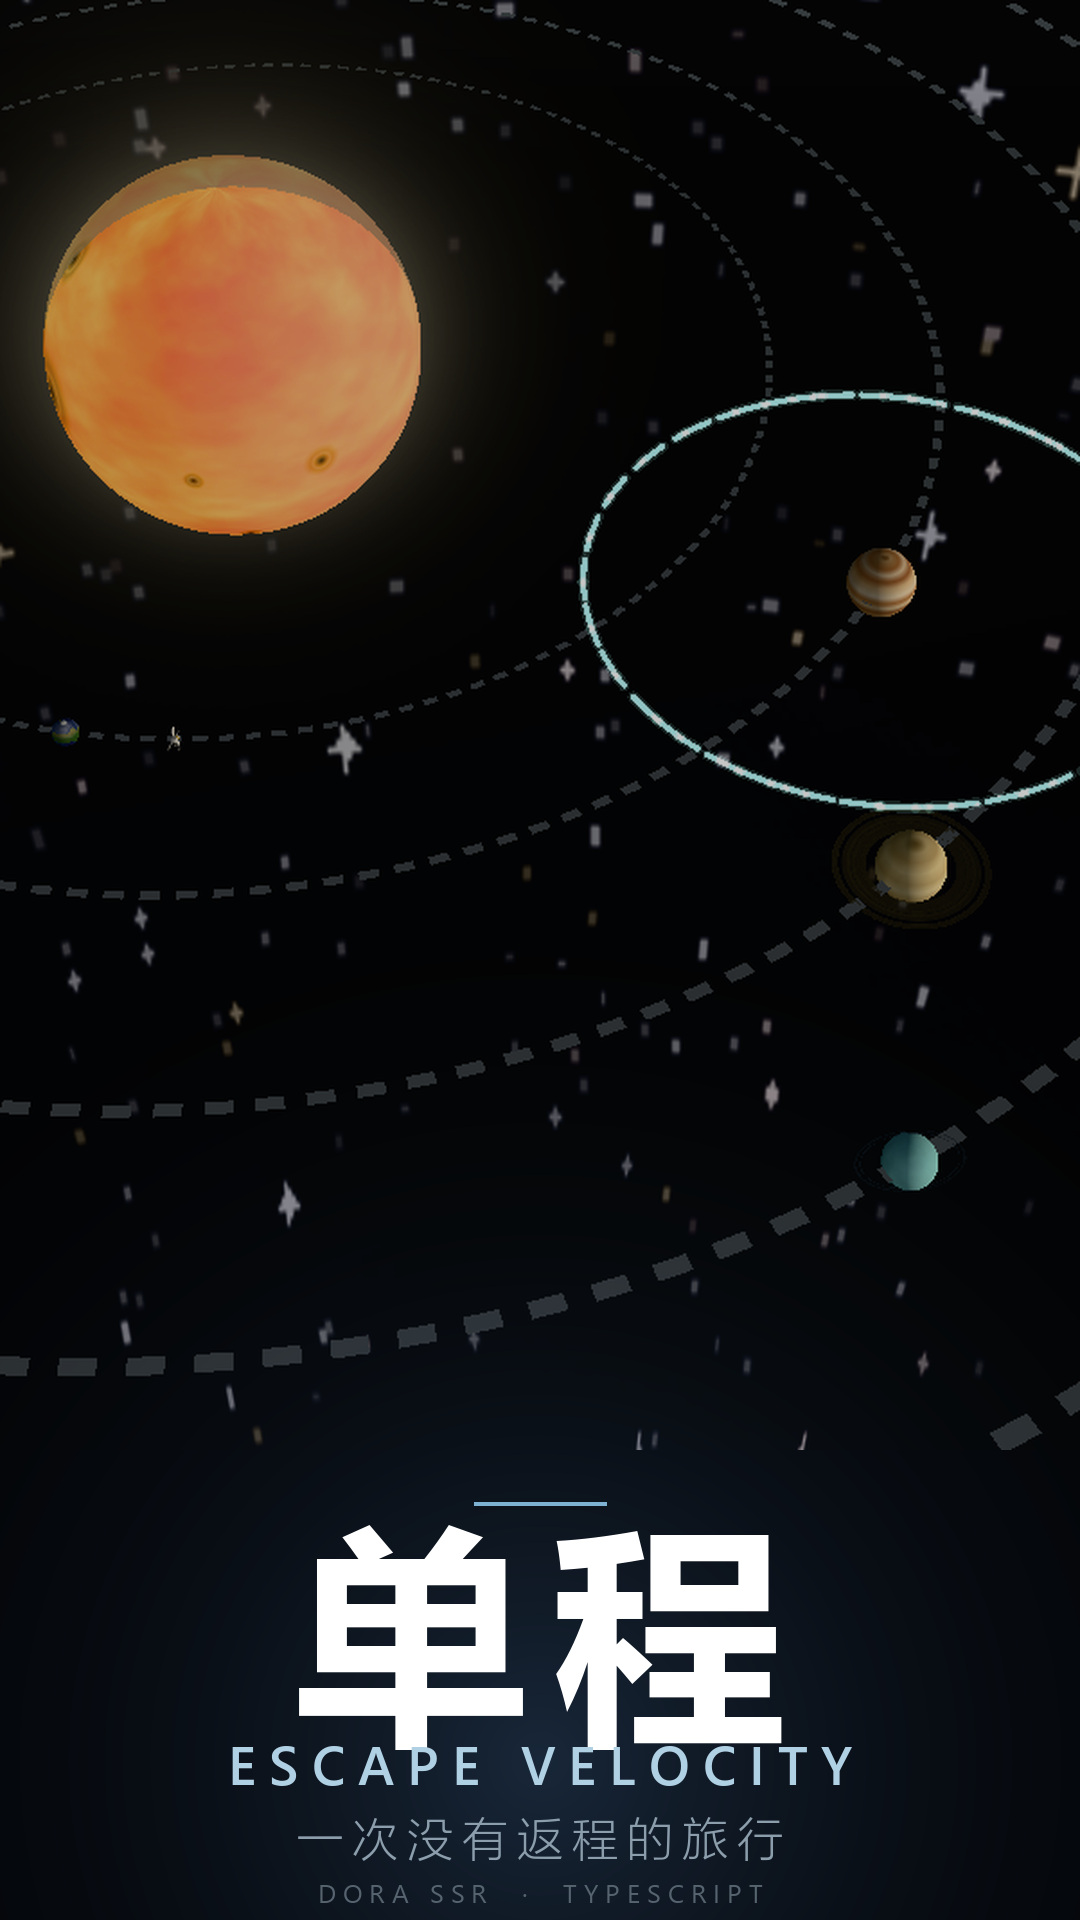
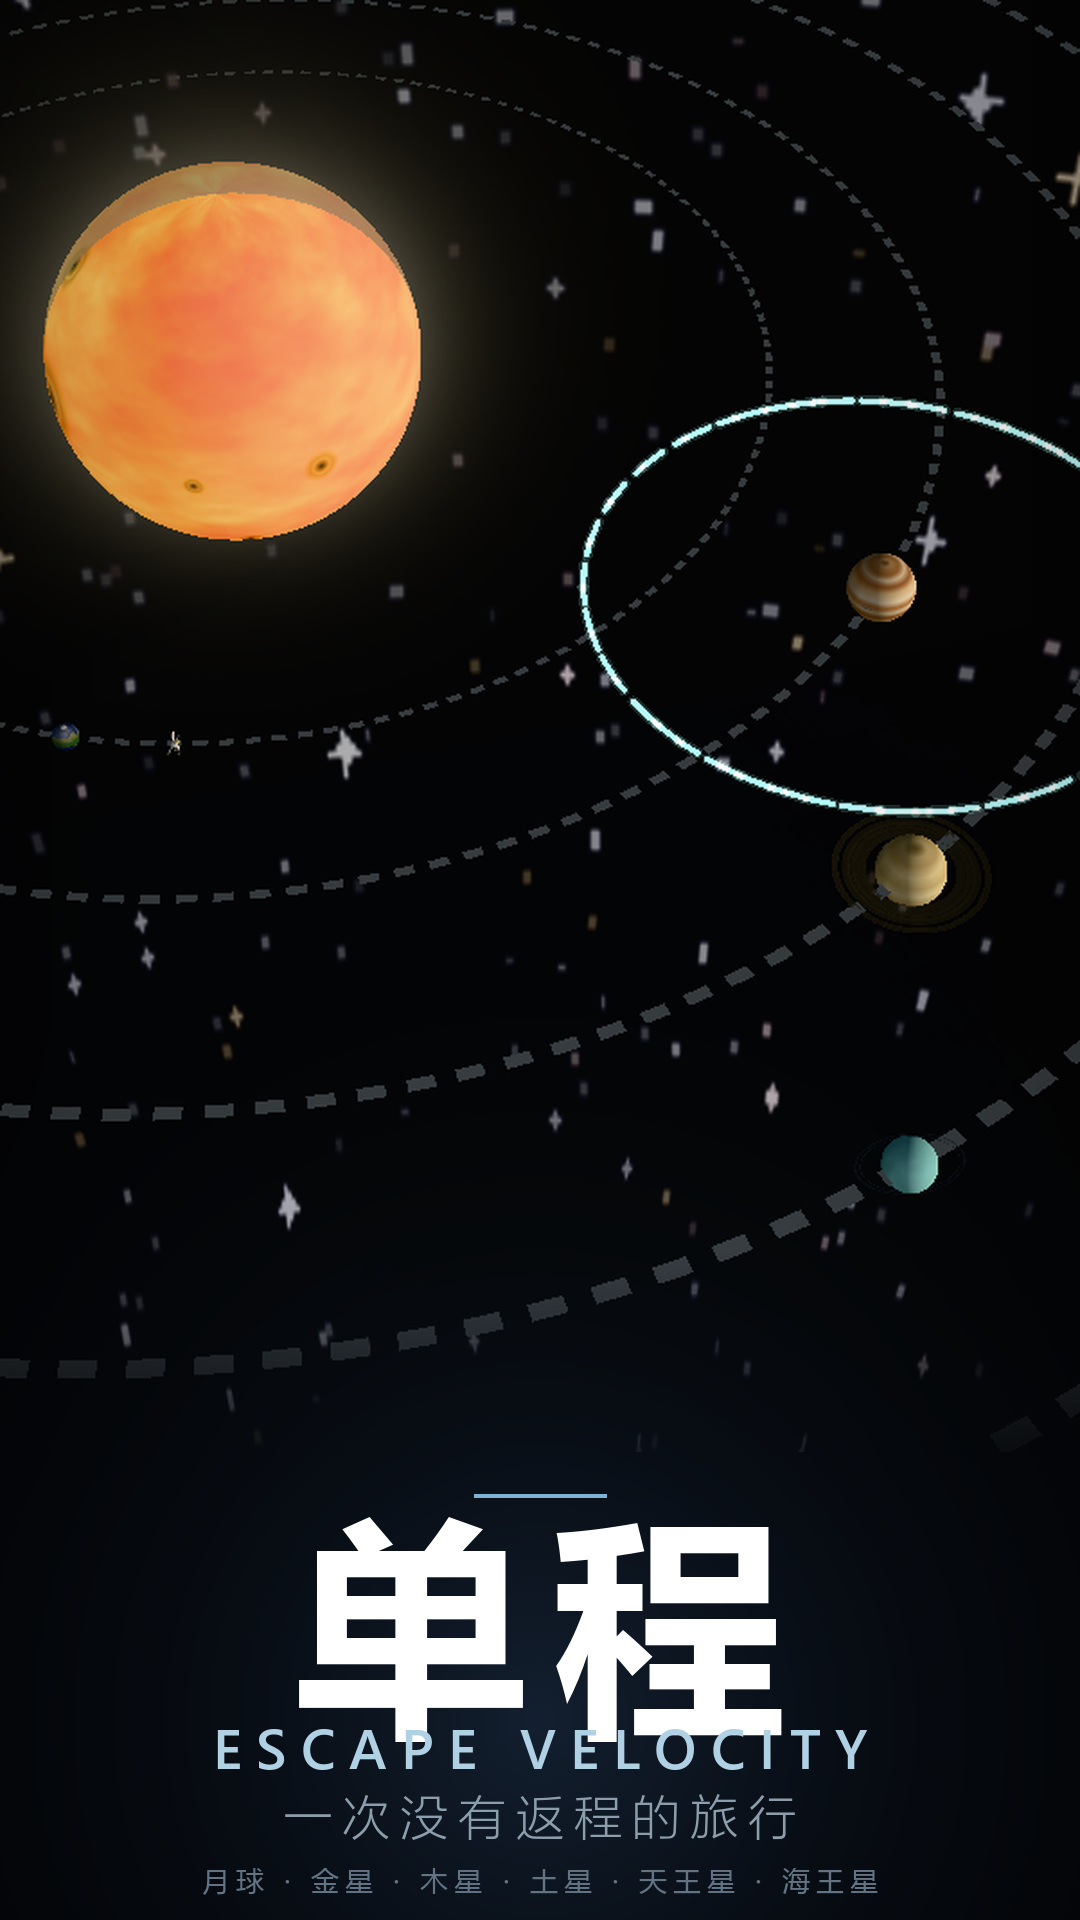
feat(S4): 提交物清单 + 图标/封面定稿（尺寸已核对：1024x1024 / 1080x1920）

diff --git a/submission/gen_assets.py b/submission/gen_assets.py
@@ -155,7 +155,7 @@ def composite_mask(base, mask, color, blur=0.0, glow_gain=1.0):
     return over(base, color, m)
 
 
-def sphere_disc(tex, out_px, lon0=0.0, lat0=0.0, limb=0.42, ss=2):
+def sphere_disc(tex, out_px, lon0=0.0, lat0=0.0, limb=0.42, ss=2, twist=0.0, hot=0.0):
     """把等距柱状贴图映射成一个球面圆盘（正交视图），带边缘变暗。返回 RGBA，尺寸 out_px。"""
     D = int(out_px * ss)
     t = np_of(tex)
@@ -165,8 +165,8 @@ def sphere_disc(tex, out_px, lon0=0.0, lat0=0.0, limb=0.42, ss=2):
     ny = -(yy + 0.5 - D / 2.0) / (D / 2.0)
     r2 = nx * nx + ny * ny
     nz = np.sqrt(np.clip(1.0 - r2, 0.0, None))
-    lon = np.arctan2(nx, np.maximum(nz, 1e-6)) + lon0
     lat = np.arcsin(np.clip(ny, -1.0, 1.0)) * 0.82 + lat0
+    lon = np.arctan2(nx, np.maximum(nz, 1e-6)) + lon0 + twist * lat
     u = (lon / (2.0 * np.pi) + 0.5) % 1.0
     v = np.clip(0.5 - lat / np.pi, 0.0, 1.0)
 
@@ -185,6 +185,9 @@ def sphere_disc(tex, out_px, lon0=0.0, lat0=0.0, limb=0.42, ss=2):
 
     shade = (1.0 - limb * (1.0 - nz ** 0.55))[..., None]
     c = np.clip(c * shade, 0.0, 1.0)
+    if hot > 0.0:   # 自发光天体：中心偏热白，像“在发光”而不是被照亮
+        k = (hot * (nz ** 1.7))[..., None]
+        c = np.clip(c + (np.asarray([1.0, 0.94, 0.80], dtype=np.float32) - c) * k, 0.0, 1.0)
     a = np.clip((1.0 - np.sqrt(r2)) * (D / 2.0), 0.0, 1.0)
     rgba = np.concatenate([c, a[..., None]], axis=2)
     disc = Image.fromarray((rgba * 255.0 + 0.5).astype(np.uint8))
@@ -247,7 +250,7 @@ def probe_sprite(scale=1.0):
 def build_icon():
     S = 1024
     sf = load_rgb(ASSETS / "starfield.png")
-    bg = starfield_panel(S, S, sf, (512, 0, 1024, 512), 2.0, boost=2.1, level=0.010)
+    bg = starfield_panel(S, S, sf, (512, 0, 1024, 512), 2.0, boost=2.0, level=0.030)
     bg = bg * vignette(S, S, 0.62, 2.0)[..., None]
     base = np.clip(bg, 0.0, 1.0).copy()
 
@@ -255,8 +258,8 @@ def build_icon():
     sun_r = 232.0
 
     # 日冕 / 暖色光晕
-    base = screen(base, (255, 148, 56), (radial_mask(S, S, sun_c[0], sun_c[1], 660, 2.8) * 0.62))
-    base = screen(base, (255, 206, 130), (radial_mask(S, S, sun_c[0], sun_c[1], 420, 3.0) * 0.45))
+    base = screen(base, (255, 146, 52), (radial_mask(S, S, sun_c[0], sun_c[1], 680, 2.6) * 0.68))
+    base = screen(base, (255, 204, 126), (radial_mask(S, S, sun_c[0], sun_c[1], 400, 2.6) * 0.55))
 
     # 轨迹虚线（先算好掩膜，稍后连同辉光一起叠在太阳之上）
     arc_r = 348.0
@@ -264,7 +267,8 @@ def build_icon():
                             alpha0=0.40, alpha1=1.0)
 
     # 太阳（贴图取无黑子窗口；外缘补一圈亮边，小尺寸下更“实”）
-    sun = sphere_disc(clean_sun(), int(sun_r * 2), lon0=0.0, lat0=-0.2, limb=0.34)
+    sun = sphere_disc(clean_sun(), int(sun_r * 2), lon0=0.0, lat0=-0.2, limb=0.30,
+                      twist=0.55, hot=0.30)
     base = screen(base, (255, 176, 96), radial_mask(S, S, sun_c[0], sun_c[1], sun_r + 26, 3.2) * 0.5)
     paste_rgba(base, sun, int(sun_c[0] - sun_r), int(sun_c[1] - sun_r))
 
@@ -293,10 +297,10 @@ def build_icon():
 # ---------------------------------------------------------------- 封面（S4.2）
 
 COVER_W, COVER_H = 1080, 1920
-# level-6.png（601x1066）里 HUD 的位置：右上按钮 y<=155，左下 Δv 文本 y<=50，
-# 「发射日期」y<=155，底部引擎工具条 y>=975。裁 152..972 即得到干净画面（无任何 HUD）。
-SHOT_CROP = (0, 152, 601, 972)
-BAND_H = 1474
+# level-6.png（601x1066）里 HUD 的位置（逐行扫出来的）：右上按钮最后一行蓝像素在 y=161，
+# 「发射日期」y<=155，底部引擎工具条第一行亮像素在 y=1016。裁 164..972 即得到无 HUD 的干净画面。
+SHOT_CROP = (0, 164, 601, 972)
+BAND_H = 1452
 
 
 def build_cover(shot_name="level-6.png", crop=SHOT_CROP, band_h=BAND_H):
@@ -376,7 +380,7 @@ def main(argv):
         save_qa(cover, "s4-cover-thumb.png", (270, 480))
     if what == "variants":
         # 候选底图对比（只写到 test-results，不进 submission/）
-        for nm, crop in (("level-1.png", (0, 152, 601, 900)), ("level-4.png", (0, 152, 601, 972)),
+        for nm, crop in (("level-1.png", (0, 164, 601, 900)), ("level-4.png", (0, 164, 601, 972)),
                          ("level-6.png", SHOT_CROP)):
             v = build_cover(nm, crop, int((crop[3] - crop[1]) * COVER_W / 601.0))
             tag = nm.replace("level-", "L").replace(".png", "")

diff --git a/docs/提交物清单.md b/docs/提交物清单.md
@@ -1,0 +1,150 @@
+# 比赛提交物清单（S4）
+
+> 对应活动硬性要求：引擎 Dora SSR / 语言 TypeScript / 竖屏单指触屏 / Web (HTML) 导出并可运行 /
+> AGPL-3.0-only / AtomGit 公开仓库 / 素材 = icon 1024×1024 PNG、封面 1080×1920 JPG、
+> 演示视频 1080×1920 MP4（30–60 秒）。要求原文见 [`开发手册.md`](./开发手册.md) §1，**以活动页公告为准**。
+> 素材生成脚本：[`../submission/gen_assets.py`](../submission/gen_assets.py)（可在任意目录重复运行）。
+
+## 一、状态总表
+
+| # | 提交物 | 要求 | 状态 | 产物 |
+|---|---|---|---|---|
+| A | 应用图标 | 1024×1024 PNG | ✅ **已完成**（2026-09-27） | `submission/icon-1024.png` |
+| B | 封面 | 1080×1920（JPG） | ✅ **已完成**（2026-09-27） | `submission/cover-1080x1920.jpg`（同名 .png 也在） |
+| C | 演示视频 | 1080×1920 MP4，30–60 s | ❌ **未录**（需引擎；分镜与录制步骤见第四节） | — |
+| D | 公开仓库 | AtomGit 公开仓库 + AGPL-3.0-only | 🟡 **部分**：许可已就位，远端只有 GitHub | `LICENSE`（官方全文，34,523 B） |
+| E | 可玩构建 | Web (HTML) 导出并通过运行测试 | 🟡 **旧包可玩，新包未导出**：仓库内无导出产物；包体 17 MB > 8 MB 预算 | — |
+
+图例：✅ 有产物且有证据 · 🟡 有产物/部分就绪，仍有缺口 · ❌ 未开始。
+
+---
+
+## 二、A 应用图标（✅）
+
+**现状**：`submission/icon-1024.png`，1024×1024 RGB PNG（约 331 KB）。
+
+**画面**：深空底（仓库自带的 `Assets/Image/starfield.png`）上一颗带米粒组织、中心偏热白的橙色太阳，
+一条**浅青色虚线轨迹**从右上绕日掠过、在左下角结束于一台白/银探测器（太阳能板 + 天线），
+轨迹起点是一颗蓝色地球。缩到 100 px 时仍然只读出三样东西：**橙色圆盘 + 青色虚线弧 + 白色的探测器**。
+
+**素材来源（全部仓库自有，无第三方）**：`sun.jpg`（裁掉黑子的干净窗口 `x∈[150,560]`）、
+`planet_earth.jpg`、`starfield.png`；字体只用了系统 `msyh*` / `seguisb`（本图标实际未用到字体）。
+
+**还缺什么**：无阻塞项。可选打磨（都不影响提交）：太阳贴图在球面上仍略带横向条纹；
+若 B 轮做了「掠过慢动作」，图标可换成实机飞掠帧。
+
+**下一步**：`python submission/gen_assets.py icon` 可一键重生成；改完用
+`.agent/test-results/s4-icon-100.png`（脚本自动输出的 100 px 预览）复核小尺寸读数。
+
+---
+
+## 三、B 封面（✅）
+
+**现状**：`submission/cover-1080x1920.png` 与 `submission/cover-1080x1920.jpg`（quality 94），均 1080×1920。
+
+**画面**：底图是引擎实机截图 `.agent/test-results/level-6.png`（第 6 关 海王星，day-0 排布），
+**逐行扫掉 HUD 后裁 y∈[164,972]**（右上按钮最后一行蓝像素在 y=161，底部引擎工具条第一行亮像素在 y=1016，
+「Δv」「发射日期」文本都在 y≤155 ⇒ 裁完画面里没有任何引擎 UI）。画面内容：左上发光的太阳、
+四条虚线轨道、青色的海王星到达环、木星/土星/天王星/海王星依次排开，左下角是地球与探测器。
+下缘长距离（y 1250→1478）溶解进深空底色，标题区留白克制：
+
+    （细分隔线）
+    单程                                  232 px，msyhbd，白色，字距 26
+    ESCAPE VELOCITY                       56 px，Segoe UI Semibold，字距 14
+    一次没有返程的旅行                     48 px，msyh Light，字距 10
+    月球 · 金星 · 木星 · 土星 · 天王星 · 海王星   28 px，msyh Regular（六站，替代“DORA SSR”页脚）
+
+**还缺什么**：无阻塞项。已知小瑕：底图太阳上有两颗原贴图带来的小黑子（缩略图下几乎看不见）。
+
+**下一步**：`python submission/gen_assets.py cover`；缩略图复核用 `.agent/test-results/s4-cover-thumb.png`（270×480）。
+若比赛**只收 JPG**，直接交 `cover-1080x1920.jpg`（脚本每次都会一起生成）。
+
+---
+
+## 四、C 演示视频（❌ 未录 —— 只列分镜与录制步骤）
+
+**规格**：1080×1920 竖屏 MP4，**30–60 秒**，全流程用真实游戏画面，不掺桌面/IDE。
+
+### 4.1 分镜清单（合计 ≈ 56 s）
+
+| # | 时间 | 画面 | 录制怎么操作 | 依赖状态 |
+|---|---|---|---|---|
+| 1 | 0:00–0:07 | 开场：太阳系全景 → 聚焦地球旁的入轨探测器 | 冷启动后**不动手**，让 `game/Opening.ts` 自己演完 | ✅ 已实现（33 断言） |
+| 2 | 0:07–0:11 | 落回选关：标题「选择任务」+ L1 月球 … L6 海王星 | 等开场结束即可（6/6 已解锁） | ✅ 已实现 |
+| 3 | 0:11–0:22 | 进 L6：2D 线稿轨道 + 四颗巨行星 + 目标图钉；按住「◀ 回退 / 加速 ▶」把发射日期从 0 推到 ~150，行星位置随日期变化 | 录制时**按住**时间流按钮（按住即走），日期读数要能看清 | ⚠ 时间轴 ✅；**2D 简化视图 / 流动光点视 B 收工状态**（未做就用现有 3D 视图） |
+| 4 | 0:22–0:30 | 拖拽瞄准：从探测器拉出青色预测线，绕过木星指向海王星 —— 松手发射 | 录一条真实拖拽（可用 `tools/level-play.ps1` 合成鼠标，但**成片建议手工拖**更自然） | ✅ 已实现（预测线 = 真实轨迹，同一 `simulate`） |
+| 5 | 0:30–0:44 | 飞行与飞掠：加速 → 掠过木星被甩弯 → 越来越远 | 点「加速」；**若掠过慢动作已做**，在 0:38 插 2 秒 1/4 速近景特写 | ⚠ 飞行 ✅；**掠过慢动作未做** |
+| 6 | 0:44–0:50 | 结算面板：任务/精度/速度数值 + 「重试本关 / 返回关卡选择」 | 录一次真实结算（成功优先，失败也真实可拍） | ✅ 已实现（`Result` 三态；**本项目不做星级评分**，ADR D5） |
+| 7 | 0:50–0:56 | 结尾卡：「单程 / ESCAPE VELOCITY / 一次没有返程的旅行」 | 直接拿封面 `cover-1080x1920.png` 做 2 秒静帧（可轻微缓推） | ✅ 本次产出 |
+| 备用 | — | 终章「暗淡蓝点」（飞出太阳系回望地球缩成一点） | 只有实现了才拍，插在第 7 镜之前 | ❌ **未实现**（`PROGRESS.md` 会话 46 列为待做） |
+
+### 4.2 录制步骤
+
+1. **先确认构建是绿的**：`node tools/dora-build/build.mjs --all` 必须 **0 失败**（构建失败 = 引擎跑的
+   `.lua` 还是旧的，会录到上一版画面）；再跑一次 `pwsh tools/engine-run.ps1 -Run Test/UnitRunner -WaitFile .agent/test-results/unit-summary.txt`
+   确认 `passed=8 failed=0`。
+2. **摆好窗口**：竖屏。用 `Test/SizeProbe.lua` 读 `View.size`（不要写死；横屏 2024×1230 / 竖屏 601×1066），
+   需要改窗口大小用 `tools/input-inject/set-window.ps1`。
+3. **录屏**：Windows 用 `Win+G`（Xbox Game Bar）或 OBS。**优先用 Web 导出包录**（没有引擎 dev 工具条，
+   成片干净）；若只能在 IDE 里录，就把窗口摆到使底部那条「退出 / 刷新」工具条落在录制区之外，或后期裁掉底部约 60 px。
+   目标 1080×1920（或 601×1066 放大），30 fps 即可。
+4. **逐镜录，每镜录 3 条取最好的一条**：合成点击/触摸**会丢事件**（AGENTS.md 第 8 条：6 次点击只有 1 次进游戏），
+   看到「点了没反应」就重来，别指望后期补。
+5. **转码**（有 ffmpeg 时）：
+   `ffmpeg -i raw.mkv -vf scale=1080:1920:flags=lanczos -c:v libx264 -crf 20 -pix_fmt yuv420p -movflags +faststart submission/demo-1080x1920.mp4`
+   没有 ffmpeg 就用 OBS 直接设置输出分辨率 1080×1920 / MP4。
+6. **自检**（逐条打勾）：① 时长 30–60 s；② 竖屏无黑边；③ 画面里**没有**引擎工具条、没有桌面图标；
+   ④ 前 3 秒就能看出「太空 + 轨道 + 在飞的东西」；⑤ 有一处「被行星甩弯」的镜头（这是本作的核心瞬间）。
+7. 把 mp4 放进 `submission/`，回到本清单把第 C 行改成 ✅。
+
+### 4.3 还缺什么
+
+- **阻塞在引擎上**：录制需要引擎跑起来（另外一个 Agent 正在改游戏代码），等它收工 + 构建全绿再录。
+- 若「掠过慢动作」「2D 规划视图」「终章」在截止前落地，分镜第 3/5 镜和备用镜可升级；没钱做就按上表拍。
+
+---
+
+## 五、D 公开仓库（🟡）
+
+**现状**：
+- 许可 ✅ `LICENSE` 是 GNU AGPL-3.0 官方全文（34,523 B / 661 行，SHA256 双侧一致），**已冻结不要改**。
+- 远端 🟡 当前只有 `origin = https://github.com/Dragonzhi/escape-velocity.git`（master）。
+
+**还缺什么**：
+1. **AtomGit 公开仓库**（活动要求写的是 AtomGit）—— 需要确认活动是否接受 GitHub 镜像，
+   若必须 AtomGit：在 AtomGit 新建公开仓库 → `git remote add atomgit <url>` → `git push atomgit master`（含 tags）。
+2. 仓库首页要能自证：README 里已有许可与引擎/活动链接；建议补一句「本仓库即比赛提交仓库」与素材/视频的存放路径。
+3. 提交前清理：`.agent/test-results/*`、`.temp/`、日志与个人配置**不要**进提交（或确认已在 `.gitignore`）。
+
+**下一步**：确认口径 → 推送 AtomGit → 用无痕窗口打开仓库首页确认**未登录可读**（这才是「公开」的证据）。
+
+---
+
+## 六、E 可玩构建（🟡）
+
+**现状**：
+- 历史结论：Web IDE 自带的「导出 HTML」可用且 **3D 正常**（`DORA_WEB_FEATURE_MODEL_3D` 默认 OFF，
+  但 Web IDE 的导出路径不需要从源码编译引擎 —— 见 `开发手册.md` §8.2 / R1）。
+- 桌面浏览器实机可玩（用户确认）；**手机浏览器在修完两轮真机问题后尚未复测**。
+- 包体积 **17 MB > 8 MB 预算**（R6，用户已决定暂缓）。
+- 仓库内**当前没有任何导出产物**（无 `index.html` / `*.wasm`），也就是说「最新代码的可玩包」目前不存在。
+
+**还缺什么**：
+1. **用最新代码重新导出一次 Web 包**（等 B 收工 + 构建全绿），并在浏览器里跑通「选关 → 拖 → 松手 → 结算 → 重试」全流程。
+2. 手机浏览器复测（当前唯一开放的真机项）。
+3. 决定包体口径：接受 17 MB，还是裁剪功能开关（`DORA_WEB_PROFILE=core|custom`，需要从源码构建，环境目前不具备）。
+
+**下一步**：B 收工 → 构建 41/41 → Web IDE 导出 → 桌面 + 手机各跑一遍 → 把导出包与链接写进本清单。
+
+---
+
+## 七、提交前总 checklist
+
+- [ ] `submission/icon-1024.png` 1024×1024（✅ 已就绪）
+- [ ] `submission/cover-1080x1920.jpg` 1080×1920（✅ 已就绪；同名 PNG 备用）
+- [ ] `submission/demo-1080x1920.mp4` 30–60 s 竖屏（❌ 待录，见第四节）
+- [ ] AtomGit 公开仓库可未登录访问 + AGPL-3.0-only 许可（🟡 待推送/确认口径）
+- [ ] 最新代码的 Web 导出包可玩（🟡 待导出，桌面 + 手机各验一遍）
+- [ ] `node tools/dora-build/build.mjs --all` 0 失败、`Test/UnitRunner` 8/8（提交前最后跑一次）
+- [ ] 提交目录里没有 `.agent/test-results/*`、`.temp/*`、日志、密钥
+- [ ] `docs/提交物清单.md` 五行状态全部改成 ✅
